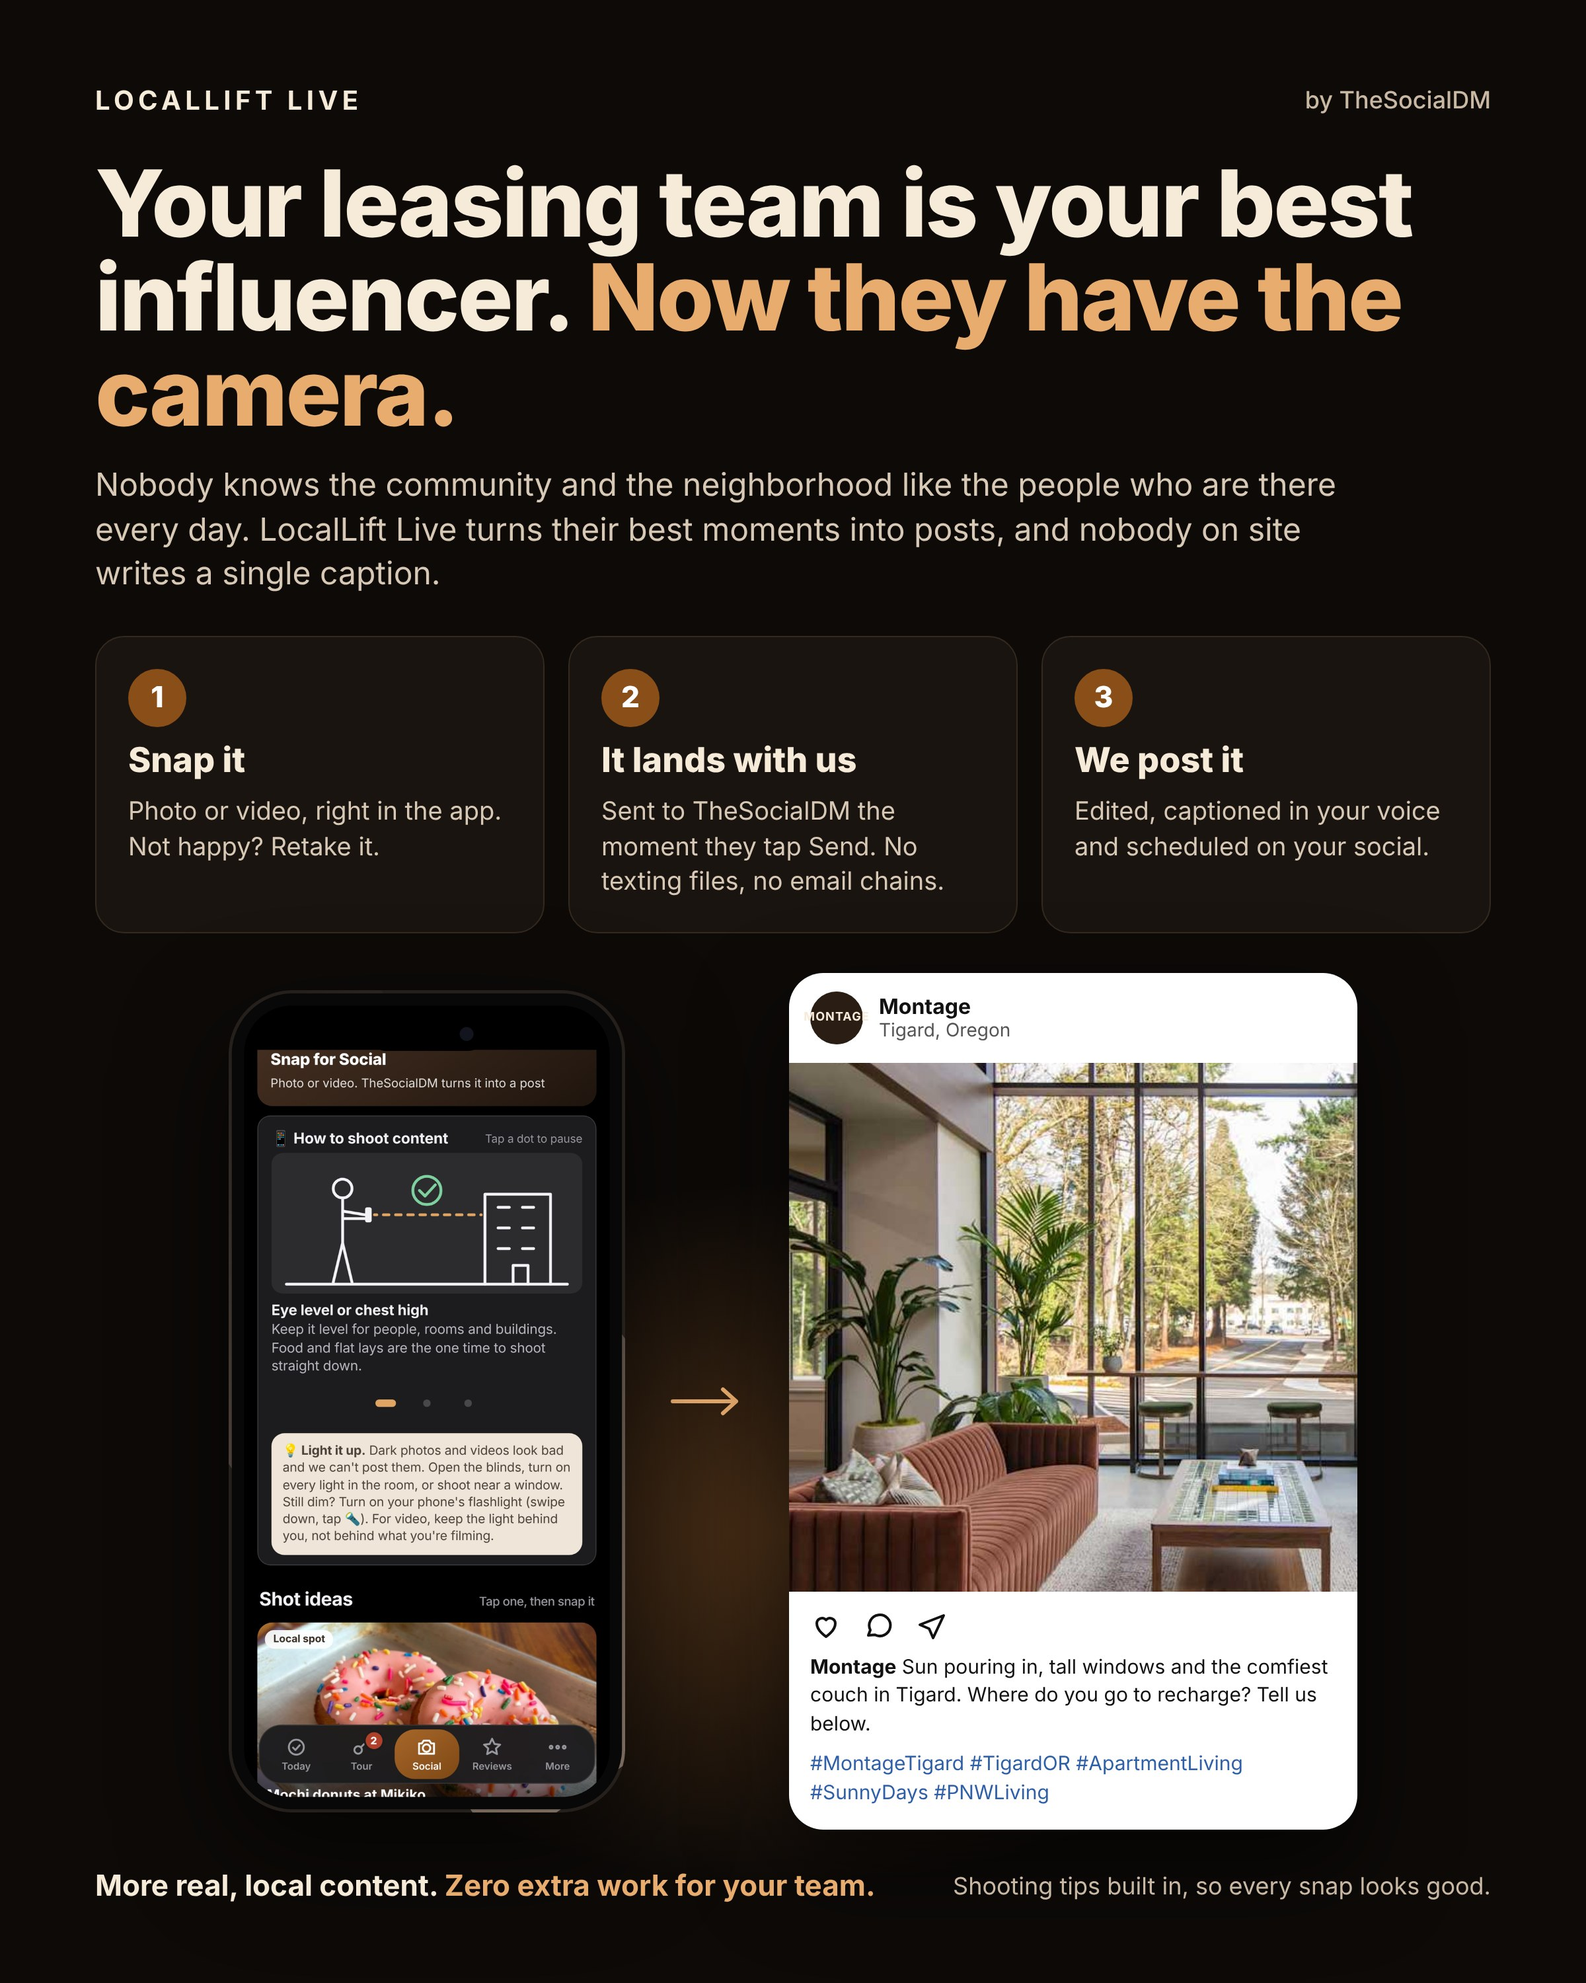
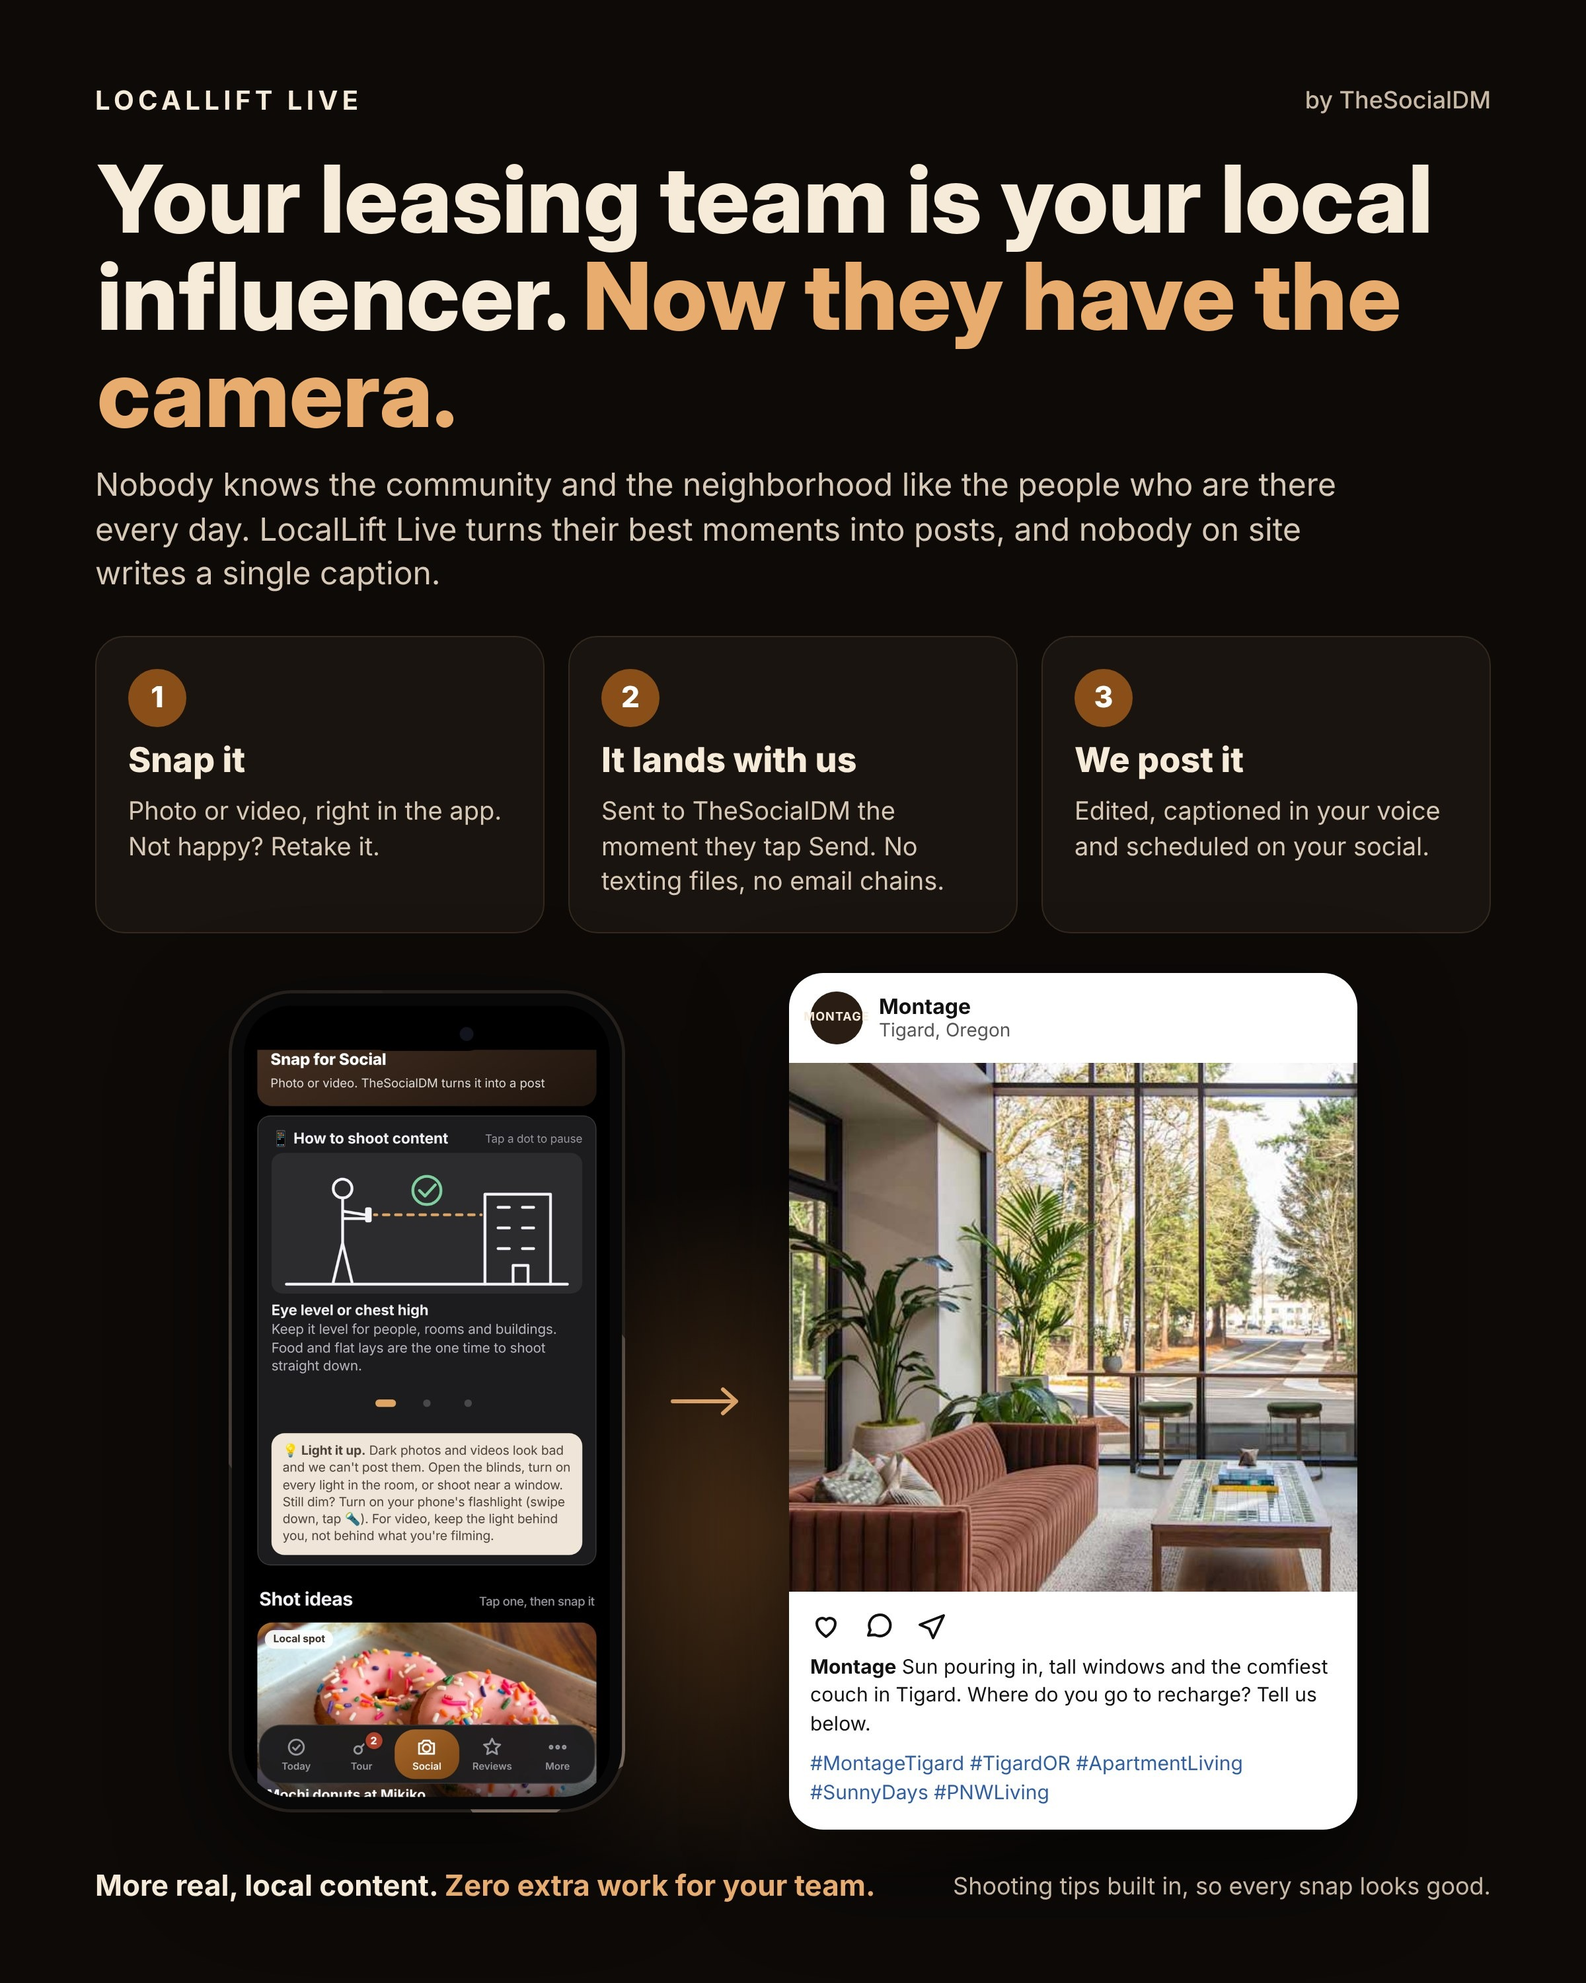
LocalLift Live: team code lock in v3, Private by design section, local influencer headline
Claude-Session: https://claude.ai/code/session_01APSB1jjjrSLGvd2XcAtwTv

diff --git a/live/promo-ll-k7q3/index.html b/live/promo-ll-k7q3/index.html
@@ -25,6 +25,8 @@ section{margin-top:34px}img{width:100%;height:auto;display:block;border-radius:1
 .x{min-height:44px;padding:0 22px;border-radius:999px;border:1.5px solid #6b4a2c;background:#1a1411;color:#f6ead9;font:inherit;font-weight:700;font-size:15px;cursor:pointer}
 .end{margin-top:44px;text-align:center}.end h2{font-size:32px;line-height:1.1;margin:0 0 12px}.end p{color:#c9b8a4;margin:0 0 20px;font-size:17px;line-height:1.5}.end a{color:#e8ad6e}
 footer{margin-top:40px;text-align:center;color:#a8968a;font-size:13px}
+.sec{margin-top:44px;padding:28px 22px;border-radius:22px;background:#17110d;border:1px solid #3a2a1e}.sec .k{font-size:12px;font-weight:800;letter-spacing:.16em;color:#e8ad6e;text-transform:uppercase}.sec h2{font-size:clamp(28px,6.5vw,40px);line-height:1.06;margin:8px 0 18px;letter-spacing:-.01em}.sec h2 em{font-style:normal;color:#e8ad6e}
+.sec ul{list-style:none;margin:0;padding:0;display:grid;gap:14px}.sec li{display:grid;grid-template-columns:44px 1fr;gap:12px;align-items:start}.sec li i{font-style:normal;font-size:22px;width:44px;height:44px;border-radius:14px;background:#2a1d14;display:grid;place-items:center}.sec li b{display:block;font-size:17px;color:#f6ead9}.sec li span{display:block;font-size:15.5px;line-height:1.5;color:#d8c9b6;margin-top:2px}
 </style></head><body><main>
 <div class="top">LOCALLIFT LIVE<span>by TheSocialDM</span></div>
 <div class="badge">OVER A YEAR IN THE MAKING</div>
@@ -40,10 +42,17 @@ footer{margin-top:40px;text-align:center;color:#a8968a;font-size:13px}
 <section><img src="LocalLift-Live-1-promo.jpg" alt="The leverage your leasing team is missing, now in their pocket"><div class="tries"><span class="tl">Try it</span><button type="button" class="tb" data-go="today">Today</button><button type="button" class="tb" data-go="kit">Objections</button><button type="button" class="tb" data-go="tour">Tour mode</button></div></section>
 <section><img src="LocalLift-Live-5-where-you-stand.jpg" alt="Where you stand before the first tour"><div class="tries"><span class="tl">Try it</span><button type="button" class="tb" data-go="rivals">Rival moves</button><button type="button" class="tb" data-go="reviews">Reviews</button></div></section>
 <section><img src="LocalLift-Live-6-never-miss-a-review.jpg" alt="Never miss another Google review"><div class="tries"><span class="tl">Try it</span><button type="button" class="tb" data-go="movein">Move in</button><button type="button" class="tb" data-go="renew">Renewal</button><button type="button" class="tb" data-go="work">Work order done</button><button type="button" class="tb" data-go="event">Resident event</button><button type="button" class="tb" data-go="qr">Show the QR</button></div></section>
-<section><img src="LocalLift-Live-4-influencer.jpg" alt="Your leasing team is your best influencer"><div class="tries"><span class="tl">Try it</span><button type="button" class="tb" data-go="snap">Snap for Social</button><button type="button" class="tb" data-go="shoot">How to shoot</button></div></section>
+<section><img src="LocalLift-Live-4-influencer.jpg" alt="Your leasing team is your local influencer"><div class="tries"><span class="tl">Try it</span><button type="button" class="tb" data-go="snap">Snap for Social</button><button type="button" class="tb" data-go="shoot">How to shoot</button></div></section>
 <section><img src="LocalLift-Live-7-day-to-the-desk.jpg" alt="The whole day goes to the desk"><div class="tries"><span class="tl">Try it</span><button type="button" class="tb" data-go="desk">Send my day</button></div></section>
 <section><img src="LocalLift-Live-2-by-role.jpg" alt="Leverage for every seat on your team"><div class="tries"><span class="tl">Try it</span><button type="button" class="tb" data-go="kit">Objections</button><button type="button" class="tb" data-go="tour">Tour mode</button><button type="button" class="tb" data-go="reviews">Reviews</button></div></section>
 
+<div class="sec" id="private"><div class="k">Private by design</div><h2>Built for your team. <em>Locked to your team.</em></h2><ul>
+<li><i>🔒</i><div><b>Team access only</b><span>The app opens only with your community's private team code. It is not listed on Google or in any app store.</span></div></li>
+<li><i>🚪</i><div><b>Someone leaves? Access ends.</b><span>Send us one email and we change the code. Every phone with the old code locks the next time it opens, and the notes saved on that phone are cleared.</span></div></li>
+<li><i>📱</i><div><b>Tour notes stay on the phone</b><span>Prospect names and notes are kept on the consultant's own phone for 7 days, so follow ups are easy, then cleared automatically. They leave the phone only when the consultant sends them to their desk.</span></div></li>
+<li><i>🛡</i><div><b>No resident or prospect details in our numbers</b><span>We count activity, like review asks and how people found you. Resident and prospect names and phone numbers never go into our tracking.</span></div></li>
+<li><i>📸</i><div><b>Nothing posts on its own</b><span>Every photo and video goes to TheSocialDM first. Our team reviews it, writes the caption and posts it.</span></div></li>
+</ul></div>
 <div class="end"><h2>See it on your property.</h2><p>Fifteen minutes. We show it live on a phone, with your community's numbers.</p><a class="cta" href="mailto:info@thesocialdm.com?subject=LocalLift%20Live%20walkthrough&amp;body=Hi%2C%20I%27d%20like%20a%2015%20minute%20LocalLift%20Live%20walkthrough.%20Best%20times%20for%20me%3A%20">Book a 15 minute walkthrough</a></div>
 <footer>LocalLift Live by TheSocialDM · info@thesocialdm.com</footer>
 </main>

diff --git a/live/locallift-live-team-x4m9/index.html b/live/locallift-live-team-x4m9/index.html
@@ -25,6 +25,8 @@ section{margin-top:34px}img{width:100%;height:auto;display:block;border-radius:1
 .x{min-height:44px;padding:0 22px;border-radius:999px;border:1.5px solid #6b4a2c;background:#1a1411;color:#f6ead9;font:inherit;font-weight:700;font-size:15px;cursor:pointer}
 .end{margin-top:44px;text-align:center}.end h2{font-size:32px;line-height:1.1;margin:0 0 12px}.end p{color:#c9b8a4;margin:0 0 20px;font-size:17px;line-height:1.5}.end a{color:#e8ad6e}
 footer{margin-top:40px;text-align:center;color:#a8968a;font-size:13px}
+.sec{margin-top:44px;padding:28px 22px;border-radius:22px;background:#17110d;border:1px solid #3a2a1e}.sec .k{font-size:12px;font-weight:800;letter-spacing:.16em;color:#e8ad6e;text-transform:uppercase}.sec h2{font-size:clamp(28px,6.5vw,40px);line-height:1.06;margin:8px 0 18px;letter-spacing:-.01em}.sec h2 em{font-style:normal;color:#e8ad6e}
+.sec ul{list-style:none;margin:0;padding:0;display:grid;gap:14px}.sec li{display:grid;grid-template-columns:44px 1fr;gap:12px;align-items:start}.sec li i{font-style:normal;font-size:22px;width:44px;height:44px;border-radius:14px;background:#2a1d14;display:grid;place-items:center}.sec li b{display:block;font-size:17px;color:#f6ead9}.sec li span{display:block;font-size:15.5px;line-height:1.5;color:#d8c9b6;margin-top:2px}
 </style></head><body><main>
 <div class="top">LOCALLIFT LIVE<span>by TheSocialDM</span></div>
 <div class="badge">OVER A YEAR IN THE MAKING</div>
@@ -39,10 +41,17 @@ footer{margin-top:40px;text-align:center;color:#a8968a;font-size:13px}
 <section><img src="LocalLift-Live-1-promo.jpg" alt="The leverage your leasing team is missing, now in their pocket"><div class="tries"><span class="tl">Try it</span><button type="button" class="tb" data-go="today">Today</button><button type="button" class="tb" data-go="kit">Objections</button><button type="button" class="tb" data-go="tour">Tour mode</button></div></section>
 <section><img src="LocalLift-Live-5-where-you-stand.jpg" alt="Where you stand before the first tour"><div class="tries"><span class="tl">Try it</span><button type="button" class="tb" data-go="rivals">Rival moves</button><button type="button" class="tb" data-go="reviews">Reviews</button></div></section>
 <section><img src="LocalLift-Live-6-never-miss-a-review.jpg" alt="Never miss another Google review"><div class="tries"><span class="tl">Try it</span><button type="button" class="tb" data-go="movein">Move in</button><button type="button" class="tb" data-go="renew">Renewal</button><button type="button" class="tb" data-go="work">Work order done</button><button type="button" class="tb" data-go="event">Resident event</button><button type="button" class="tb" data-go="qr">Show the QR</button></div></section>
-<section><img src="LocalLift-Live-4-influencer.jpg" alt="Your leasing team is your best influencer"><div class="tries"><span class="tl">Try it</span><button type="button" class="tb" data-go="snap">Snap for Social</button><button type="button" class="tb" data-go="shoot">How to shoot</button></div></section>
+<section><img src="LocalLift-Live-4-influencer.jpg" alt="Your leasing team is your local influencer"><div class="tries"><span class="tl">Try it</span><button type="button" class="tb" data-go="snap">Snap for Social</button><button type="button" class="tb" data-go="shoot">How to shoot</button></div></section>
 <section><img src="LocalLift-Live-7-day-to-the-desk.jpg" alt="The whole day goes to the desk"><div class="tries"><span class="tl">Try it</span><button type="button" class="tb" data-go="desk">Send my day</button></div></section>
 <section><img src="LocalLift-Live-2-by-role.jpg" alt="Leverage for every seat on your team"><div class="tries"><span class="tl">Try it</span><button type="button" class="tb" data-go="kit">Objections</button><button type="button" class="tb" data-go="tour">Tour mode</button><button type="button" class="tb" data-go="reviews">Reviews</button></div></section>
 
+<div class="sec" id="private"><div class="k">Private by design</div><h2>Built for your team. <em>Locked to your team.</em></h2><ul>
+<li><i>🔒</i><div><b>Team access only</b><span>The app opens only with your community's private team code. It is not listed on Google or in any app store.</span></div></li>
+<li><i>🚪</i><div><b>Someone leaves? Access ends.</b><span>Send us one email and we change the code. Every phone with the old code locks the next time it opens, and the notes saved on that phone are cleared.</span></div></li>
+<li><i>📱</i><div><b>Tour notes stay on the phone</b><span>Prospect names and notes are kept on the consultant's own phone for 7 days, so follow ups are easy, then cleared automatically. They leave the phone only when the consultant sends them to their desk.</span></div></li>
+<li><i>🛡</i><div><b>No resident or prospect details in our numbers</b><span>We count activity, like review asks and how people found you. Resident and prospect names and phone numbers never go into our tracking.</span></div></li>
+<li><i>📸</i><div><b>Nothing posts on its own</b><span>Every photo and video goes to TheSocialDM first. Our team reviews it, writes the caption and posts it.</span></div></li>
+</ul></div>
 <div class="end"><h2>Live for your team now.</h2><p>Questions or ready to roll it out to your team? Email <a href="mailto:info@thesocialdm.com">info@thesocialdm.com</a>.</p></div>
 <footer>LocalLift Live by TheSocialDM · info@thesocialdm.com</footer>
 </main>

diff --git a/live/montage-r8x2/v3/index.html b/live/montage-r8x2/v3/index.html
@@ -284,8 +284,38 @@ nav{background:rgba(28,28,30,.96)!important;border:.5px solid rgba(255,255,255,.
 <meta name="mobile-web-app-capable" content="yes">
 <meta name="apple-mobile-web-app-title" content="LocalLift Live">
 <link rel="apple-touch-icon" href="../icon-180.png">
+<style>
+#gate{position:fixed;inset:0;z-index:9999;display:flex;align-items:center;justify-content:center;background:#1c1712 url(../hero.jpg) center/cover;font-family:inherit}
+#gate:before{content:"";position:absolute;inset:0;background:rgba(20,15,10,.8)}
+#gate form{position:relative;background:#fffaf3;color:#2a1d14;border-radius:24px;padding:22px 20px;width:min(calc(100% - 32px),420px);box-shadow:0 20px 60px rgba(0,0,0,.5)}
+#gate img{width:160px;display:block;margin:0 auto 12px}#gate h2{margin:0 0 4px;font-size:22px;text-align:center}#gate p{margin:0 0 10px;font-size:14px;color:#4d4239;text-align:center;line-height:1.4}
+#gate label{display:block;font-size:13.5px;font-weight:700;margin:12px 0 5px;color:#4d4239}#gate input{width:100%;box-sizing:border-box;font:inherit;font-size:17px;padding:12px 14px;border:1px solid #d9c9b4;border-radius:14px;background:#fff;color:#2a1d14}
+#gate button{width:100%;margin-top:16px;border:0;border-radius:99px;padding:14px;font:inherit;font-size:16px;font-weight:800;background:#5f340e;color:#fff;cursor:pointer;min-height:50px}
+#gate .err{color:#a3321f;font-size:14px;font-weight:700;margin-top:10px;text-align:center;min-height:1em}#gate .sec{font-size:12.5px;color:#6e6155;margin-top:12px}
+body.gated .app{visibility:hidden}
+</style>
 </head>
-<body>
+<body class="gated">
+<div id="gate"><form id="gf" autocomplete="off"><img src="../logo-umber.png" alt="Montage"><h2>Welcome to LocalLift Live</h2><p id="gmsg">For the Montage team. Your manager has the team code.</p><label for="gn">Your first name</label><input id="gn" autocomplete="given-name" required><label for="gc">Team code</label><input id="gc" inputmode="numeric" autocomplete="one-time-code" required><div class="err" id="gerr"></div><button type="submit">Open</button><p class="sec">🔒 Private to your team. Your tour notes stay on this phone.</p></form></div>
+<script>
+(function(){
+const K='ll-team',WIPE=['ll-log','ll-curt','ll-deskmail','ll-pet','ll-me','ll-caps','ll-heard','ll-seenchg'];
+const g=()=>document.getElementById('gate');
+const sha=async t=>{const b=await crypto.subtle.digest('SHA-256',new TextEncoder().encode(t));return [...new Uint8Array(b)].map(x=>x.toString(16).padStart(2,'0')).join('')};
+const get=k=>{try{return localStorage.getItem(k)}catch(x){return null}};
+const open_=()=>{document.body.classList.remove('gated');const e=g();if(e)e.style.display='none'};
+const shut=(msg)=>{document.body.classList.add('gated');const e=g();if(e)e.style.display='flex';if(msg)document.getElementById('gmsg').textContent=msg;try{document.getElementById('gn').value=get('ll-me')||''}catch(x){}};
+window.__llHash=null;
+fetch('../data.json?t='+Date.now(),{cache:'no-store'}).then(r=>r.json()).then(j=>{window.__llHash=j.teamCodeHash||null;const have=get(K);
+ if(!window.__llHash){open_();return}
+ if(have===window.__llHash){open_();return}
+ if(have){try{WIPE.concat([K]).forEach(k=>localStorage.removeItem(k))}catch(x){};shut('The team code has changed. Your saved notes were cleared from this phone. Ask your manager for the new code.')}else shut()
+}).catch(()=>{if(get(K))open_();else shut('Connect to the internet to sign in.')});
+document.addEventListener('submit',async e=>{if(e.target.id!=='gf')return;e.preventDefault();const n=document.getElementById('gn').value.trim(),c=document.getElementById('gc').value.trim();if(!n||!c)return;
+ if(!window.__llHash){document.getElementById('gerr').textContent='Still loading. Try again in a moment.';return}
+ const h=await sha('montage:'+c);if(h===window.__llHash){try{localStorage.setItem(K,h);localStorage.setItem('ll-me',n)}catch(x){};location.reload()}else document.getElementById('gerr').textContent='That code did not match. Ask your manager for the current code.'},true);
+})();
+</script>
 <div class="app">
   <div class="pv">Preview · QR codes and uploads are live. Texts and emails are practice only and do not send.</div>
   <header class="top">
